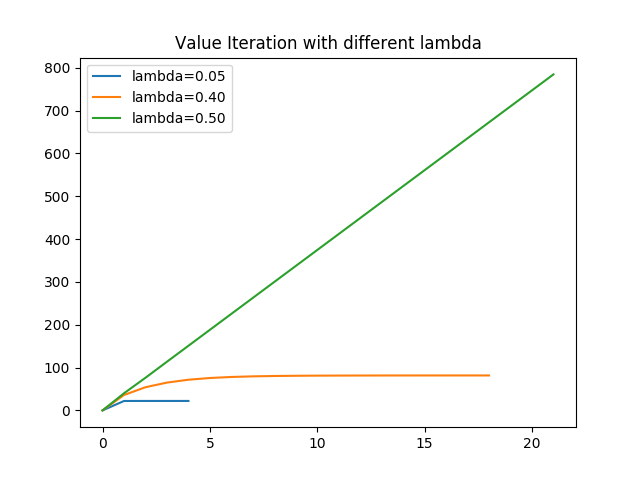
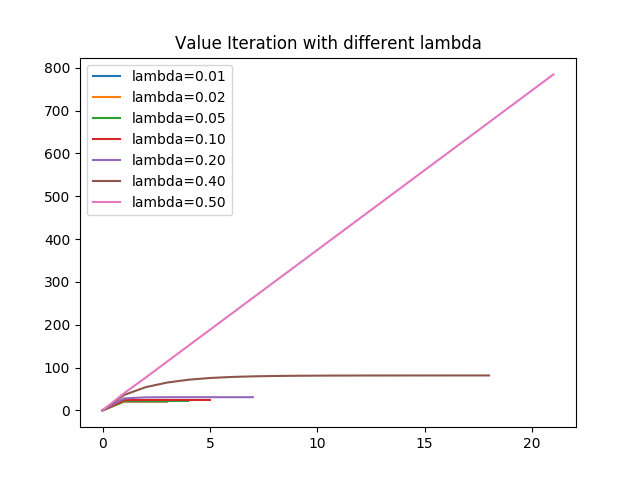
bug fixes on SARSA and Q Learning

diff --git a/Lab1/Q3.py b/Lab1/Q3.py
@@ -99,6 +99,7 @@ class Environment:
 class QLearner:
     def __init__(self, env:Environment):
         self.Q = np.zeros((*map_size, *map_size, len(ActionSpace)))
+        self.Q_counter = np.ones((*map_size, *map_size, len(ActionSpace)))
         self.env = env
         pass
     def epsilon_soft_exploration(self, state):
@@ -123,13 +124,17 @@ class QLearner:
         rewards = 0.0
         v_plot_x = [] # used for x axis
         for iter in range(1, ITER):
-            step_size = np.power(iter, -2/3)
+
             action = self.uniform_random_exploration(state)
+
+
             #rand_action = np.random.choice(self.env.list_actions())
             next_state, reward = self.env.step(action)
             rewards += reward
             # Q-Learning update
             q_idx = (*state, action.value)
+            step_size = np.power(self.Q_counter[q_idx], -2/3)
+            self.Q_counter[q_idx] += 1
             self.Q[q_idx] += step_size * (
                     reward + GAMMA * np.max(self.Q[(*next_state,)]) -
                     self.Q[q_idx])
@@ -137,7 +142,7 @@ class QLearner:
 
             if(iter % 1000 == 0):
                 rewards = 0.0
-                v = np.sum(self.Q[(*start_pos, *init_po_pos,)])
+                v = np.max(self.Q[(*start_pos, *init_po_pos,)])
                 v_plot.append(v)
                 v_plot_x.append(iter)
 
@@ -166,6 +171,7 @@ class SARSA:
     def __init__(self, epsilon, env:Environment):
         self.epsilon = epsilon
         self.Q = np.zeros((*map_size, *map_size, len(ActionSpace)))
+        self.Q_counter = np.ones((*map_size, *map_size, len(ActionSpace)))
         self.env = env
         pass
 
@@ -196,14 +202,15 @@ class SARSA:
 
         action = self.epsilon_soft_exploration(state)
         for iter in range(1, SARSA_ITER):
-            step_size = np.power(iter, -2 / 3)
-            #action = self.epsilon_soft_exploration(state)
-            #rand_action = np.random.choice(self.env.list_actions())
             next_state, reward = self.env.step(action)
             next_action = self.epsilon_soft_exploration(next_state)
             rewards += reward
             # Q-Learning update
             q_idx = (*state, action.value)
+
+            step_size = np.power(self.Q_counter[q_idx], -2/3)
+            self.Q_counter[q_idx] += 1
+
             self.Q[q_idx] += step_size * (
                     reward + GAMMA * self.Q[(*next_state,next_action.value)] -
                     self.Q[q_idx])
@@ -222,7 +229,7 @@ class SARSA:
                 loss_rewards = 0.0
                 win_rewards = 0.0
 
-                v = np.sum(self.Q[(*start_pos,*init_po_pos,)])
+                v = np.max(self.Q[(*start_pos,*init_po_pos,)])
                 v_plot.append(v)
                 v_plot_x.append(iter)
                 # print('i', iter, ', v:', v)
@@ -242,18 +249,18 @@ def main():
     env = Environment()
     env.print()
 
-    plt.title('Learning progress')
-    # q = QLearner(env)
-    # q.q_learning()
+    plt.title('Q Learning')
+    q = QLearner(env)
+    q.q_learning()
 
-    epsilons = np.arange(0.1, 1, 0.1)
-    for epsilon in epsilons:
-        np.random.seed(123)
-        print('computing epsilon', epsilon)
-        env = Environment()
-        env.print()
-        sa = SARSA(epsilon, env)
-        sa.sarsa()
+    # epsilons = [0.01, 0.02, 0.05, 0.1, 0.2, 0.5]
+    # for epsilon in epsilons:
+    #     np.random.seed(123)
+    #     print('computing epsilon', epsilon)
+    #     env = Environment()
+    #     env.print()
+    #     sa = SARSA(epsilon, env)
+    #     sa.sarsa()
 
     plt.ylabel('value')
     plt.xlabel('iterations')

diff --git a/Lab1/Q2.py b/Lab1/Q2.py
@@ -219,7 +219,7 @@ class ValueIterator:
 
 def main():
 
-    lambdas = [0.05, 0.4, 0.5]
+    lambdas = [0.01, 0.02, 0.05,0.1,0.2, 0.4, 0.5]
     for lmd in lambdas:
         print('computing with lambda', lmd)
         env = Environment()
@@ -228,7 +228,7 @@ def main():
         plt.plot(convergence, label='lambda=%.2f' % lmd)
 
         np.random.seed(123)
-        for i in range(20):
+        for i in range(100):
             vi.simulate()
 
     plt.title('Value Iteration with different lambda')
